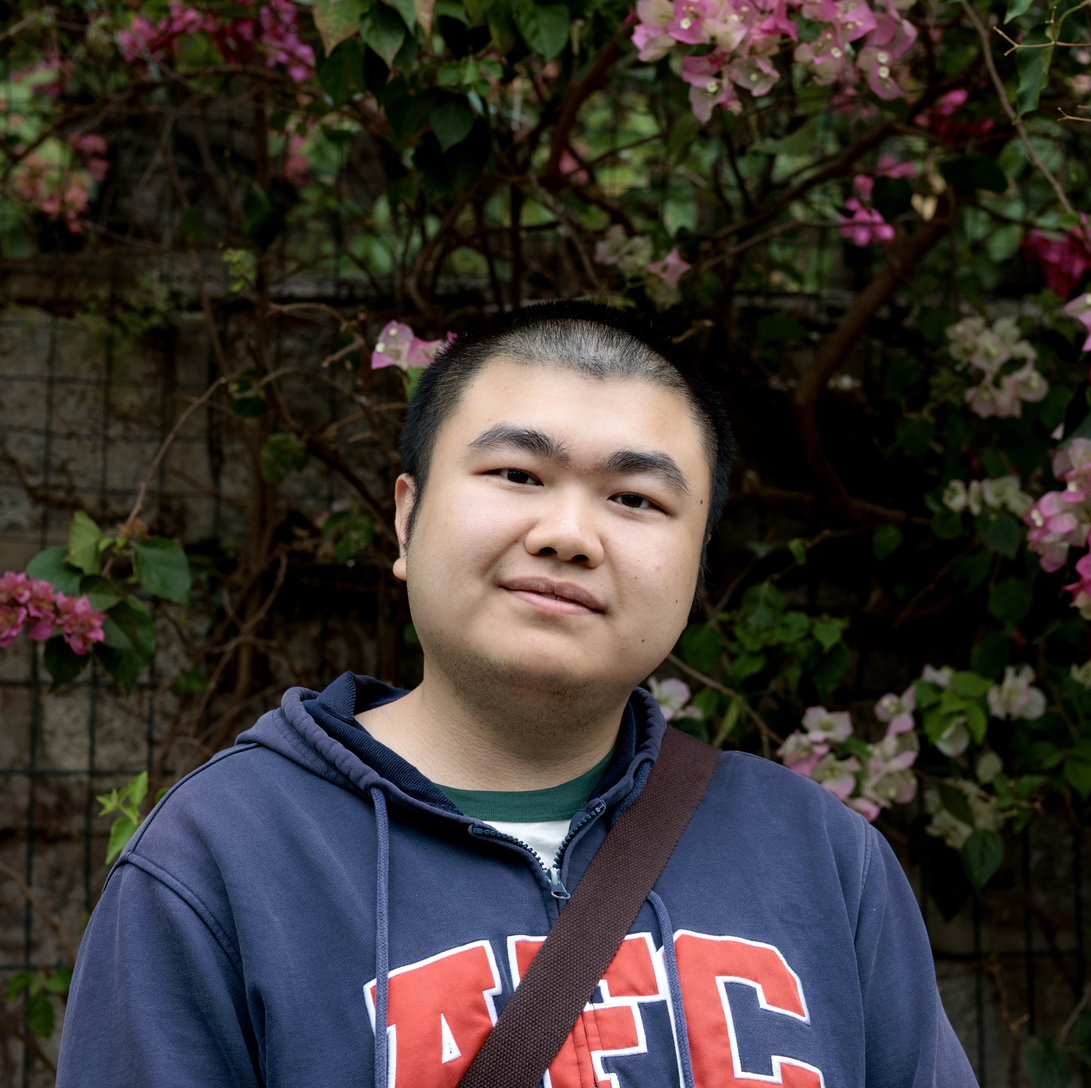
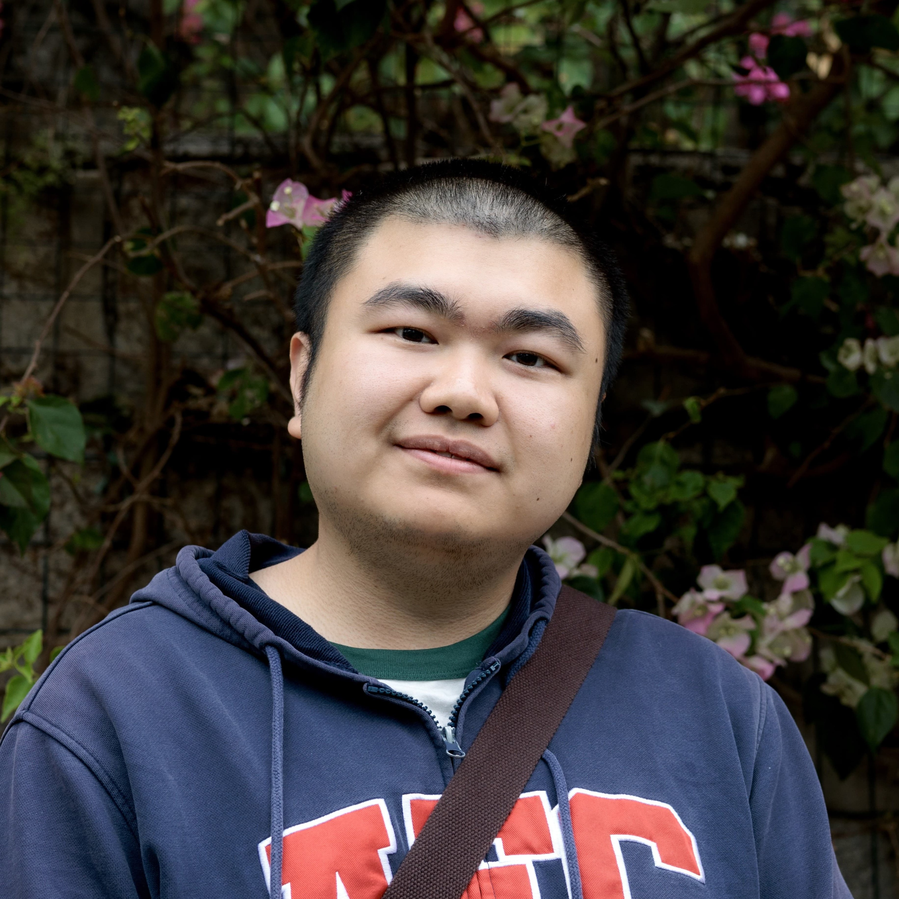
update portfolio

diff --git a/index.html b/index.html
@@ -55,7 +55,6 @@
 }
 
 
-
 /*精选作品*/
 .gallery-section {
   max-width: 1200px;
@@ -75,13 +74,12 @@
 
 .gallery-item {
   flex: 0 0 auto;
-  width: 450px;        /* 每张图片宽度 */
+  width: 300px;        /* 每张图片宽度 */
   margin: 0 30px;      /* 图片间距 */
 }
 
 .gallery-item img {
   width: 100%;
-  aspect-ratio: 3 / 2;
   object-fit: cover;
   border: 3px solid #000000;  
 }
@@ -238,38 +236,6 @@
       color: #808080;
     }
 
-.projects-section {
-  max-width: 1200px;
-  margin: 80px auto;
-  text-align: center;
-}
-
-.projects-grid {
-  display: flex;
-  flex-wrap: wrap;
-  justify-content: center;
-  gap: 30px;
-}
-
-.project-item {
-  text-decoration: none;
-  color: #808080;
-  width: 300px;
-}
-
-.project-item img {
-  width: 100%;
-  aspect-ratio: 3 / 2;
-  object-fit: cover;
-  transition: transform 0.3s;
-  
-  border: 2px solid #000000;  
-}
-
-.project-item img:hover {
-  transform: scale(1.05);
-}
-
 
 /* Lightbox 基础 */
 .lightbox {
@@ -335,15 +301,16 @@
 /* 组图区域 */
 .series-gallery {
   display: grid;                               /* 使用网格布局 */
-  grid-template-columns: repeat(auto-fit, minmax(250px, 1fr));
+  grid-template-columns: repeat(auto-fit, minmax(200px, 1fr));
   /* 自动换行，每张最小 250px，最大占满一列 */
-  gap: 20px;                                   /* 图片间距 */
+  column-gap:50px;
+  row-gap: 30px;                                /* 图片间距 */
 }
 
 /* 组图里的每张图 */
 .series-gallery img {
   width: 100%;              /* 图片宽度填满列 */
-  aspect-ratio: 3 / 2;      /* 固定 3:2 比例 */
+  aspect-ratio: 1;     
   object-fit: cover;        /* 裁剪填充，不变形 */
   transition: transform 0.3s ease;
   
@@ -400,20 +367,18 @@
   <p>"让每个值得保留的瞬间都能被记录。"</p>
 </section>
 
-
-
 <!--精选作品-->
 <section class="gallery-section">
 <div class="gallery-section">
   <button class="gallery-btn prev">‹</button>
   <div class="gallery-container">
     <div class="gallery-track">
-      <div class="gallery-item"><img src="images/zuopin1.jpg" alt="" ></div>
-      <div class="gallery-item"><img src="images/zuopin2.jpg" alt="" ></div>
-      <div class="gallery-item"><img src="images/zuopin3.jpg" alt="" ></div>
-      <div class="gallery-item"><img src="images/zuopin4.jpg" alt="" ></div>
-      <div class="gallery-item"><img src="images/zuopin5.jpg" alt="" ></div>
-      <div class="gallery-item"><img src="images/zuopin6.jpg" alt="" ></div>
+      <div class="gallery-item"><img src="images/zuijin1.jpg" alt="" ></div>
+      <div class="gallery-item"><img src="images/zuijin2.jpg" alt="" ></div>
+      <div class="gallery-item"><img src="images/zuijin3.jpg" alt="" ></div>
+      <div class="gallery-item"><img src="images/zuijin4.jpg" alt="" ></div>
+      <div class="gallery-item"><img src="images/zuijin5.jpg" alt="" ></div>
+      <div class="gallery-item"><img src="images/zuijin6.jpg" alt="" ></div>
       <!-- 添加更多图片 -->
     </div>
   </div>
@@ -444,6 +409,7 @@
         <p>2001年：出生于福建漳州，于厦门长大</p>
         <p>2023年：第一次拿起相机，从此开始享受拍照的乐趣</p>
         <p>2025年：于医学院本科毕业，拍摄编辑组图《学校记忆》</p>
+        <p>目前使用相机：理光GRⅢ，奥林巴斯OM2-SP</p>
     </div>
     </main>
 
@@ -470,17 +436,44 @@
     </div>
     <div class="portfolio-item">
       <img src="images/zuopin4.jpg" alt="">
-      <p>《街角》</p>
+      <p>《奇怪的影子》</p>
     </div>
     <div class="portfolio-item">
       <img src="images/zuopin5.jpg" alt="">
-      <p>《买卖》</p>
+      <p>《无题》</p>
     </div>
     <div class="portfolio-item">
       <img src="images/zuopin6.jpg" alt="">
+      <p>《不稳定的楼》</p>
+    </div>
+<div class="portfolio-item">
+      <img src="images/zuopin7.jpg" alt="">
+      <p>《街角》</p>
+    </div>
+    <div class="portfolio-item">
+      <img src="images/zuopin8.jpg" alt="">
+      <p>《迷惘》</p>
+    </div>
+    <div class="portfolio-item">
+      <img src="images/zuopin9.jpg" alt="">
       <p>《过节》</p>
     </div>
 
+        <div class="portfolio-item">
+      <img src="images/zuopin10.jpg" alt="">
+      <p>《买卖》</p>
+    </div>
+
+ <div class="portfolio-item">
+      <img src="images/zuopin11.jpg" alt="">
+      <p>《农民》</p>
+    </div>
+ <div class="portfolio-item">
+      <img src="images/zuopin12.jpg" alt="">
+      <p>《吃早餐》</p>
+    </div>
+
+    
 <div id="lightbox" class="lightbox" onclick="closeLightbox()">
   <img id="lightbox-img" src="">
 </div>
@@ -501,17 +494,24 @@
 
   <!-- 第一组作品 -->
   <div class="series">
-    <h2 class="series-title">《无题》系列</h2> <!-- 系列标题 -->
-    <p class="series-desc">这一系列拍摄于2023年，主要探索城市日常与孤独感。</p> <!-- 系列简介 -->
+    <h2 class="series-title">《学校记忆》系列</h2> <!-- 系列标题 -->
+    <p class="series-desc">这一系列拍摄于2025年，在毕业前夕留下一些关于学校的记忆。</p> <!-- 系列简介 -->
 
     <!-- 组图容器 -->
     <div class="series-gallery">
-      <img src="images/zuopin1.jpg" alt="无题1">
-      <img src="images/zuopin2.jpg" alt="无题2">
-      <img src="images/zuopin3.jpg" alt="无题3">
-      <img src="images/zuopin4.jpg" alt="无题4">
+      <img src="images/xuexiao1.jpg" alt="">
+      <img src="images/xuexiao2.jpg" alt="">
+      <img src="images/xuexiao3.jpg" alt="">
+      <img src="images/xuexiao4.jpg" alt="">
+      <img src="images/xuexiao5.jpg" alt="">
+      <img src="images/xuexiao6.jpg" alt="">
+      <img src="images/xuexiao7.jpg" alt="">
+      <img src="images/xuexiao8.jpg" alt="">
+      <img src="images/xuexiao9.jpg" alt="">
     </div>
   </div>
+
+
 
 </section>
 
@@ -582,13 +582,13 @@
 
 <script>
 let currentIndex = 0;
-const images = document.querySelectorAll(".portfolio-item img");
+const images = document.querySelectorAll(".portfolio-item img,.gallery-item img,.series-gallery img");
 const lightbox = document.getElementById("lightbox");
 const lightboxImg = document.getElementById("lightbox-img");
 
 // 点击作品打开 Lightbox
 images.forEach((img, index) => {
-  img.addEventListener("click", () => openLightbox(index));
+  img.addEventListener("click", () => openLightbox(index,images));
 });
 
 function openLightbox(index) {
